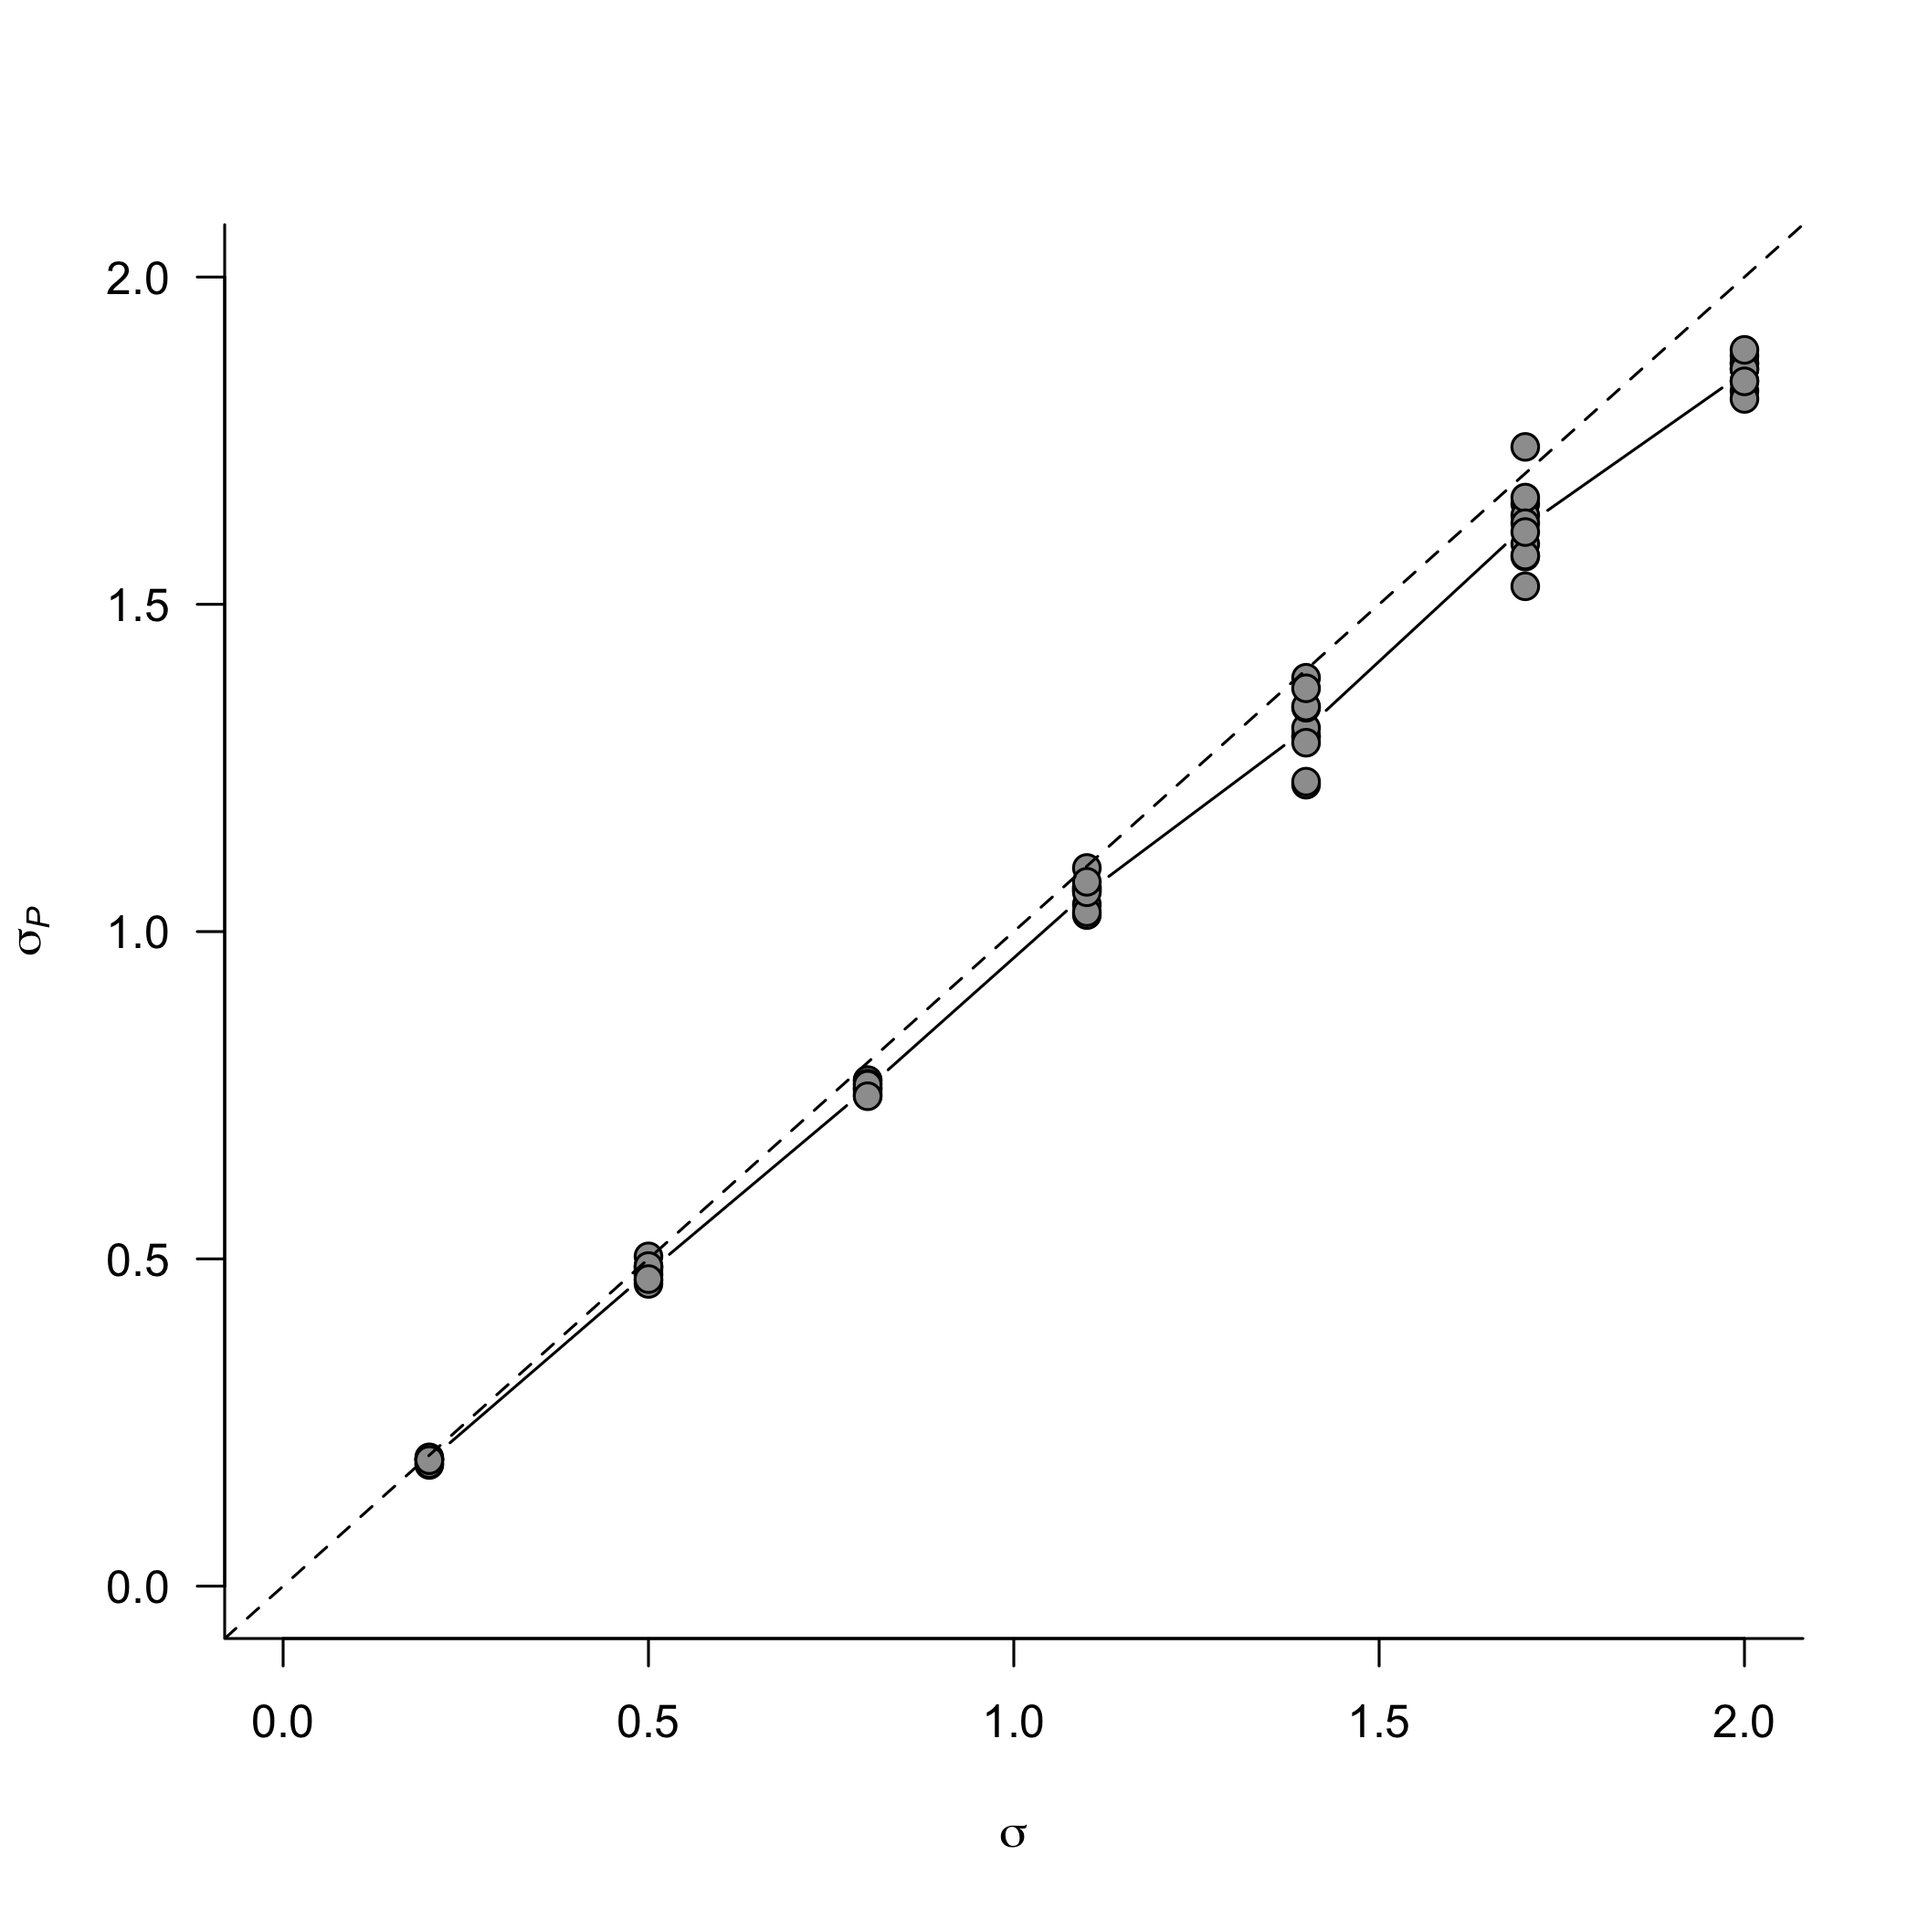
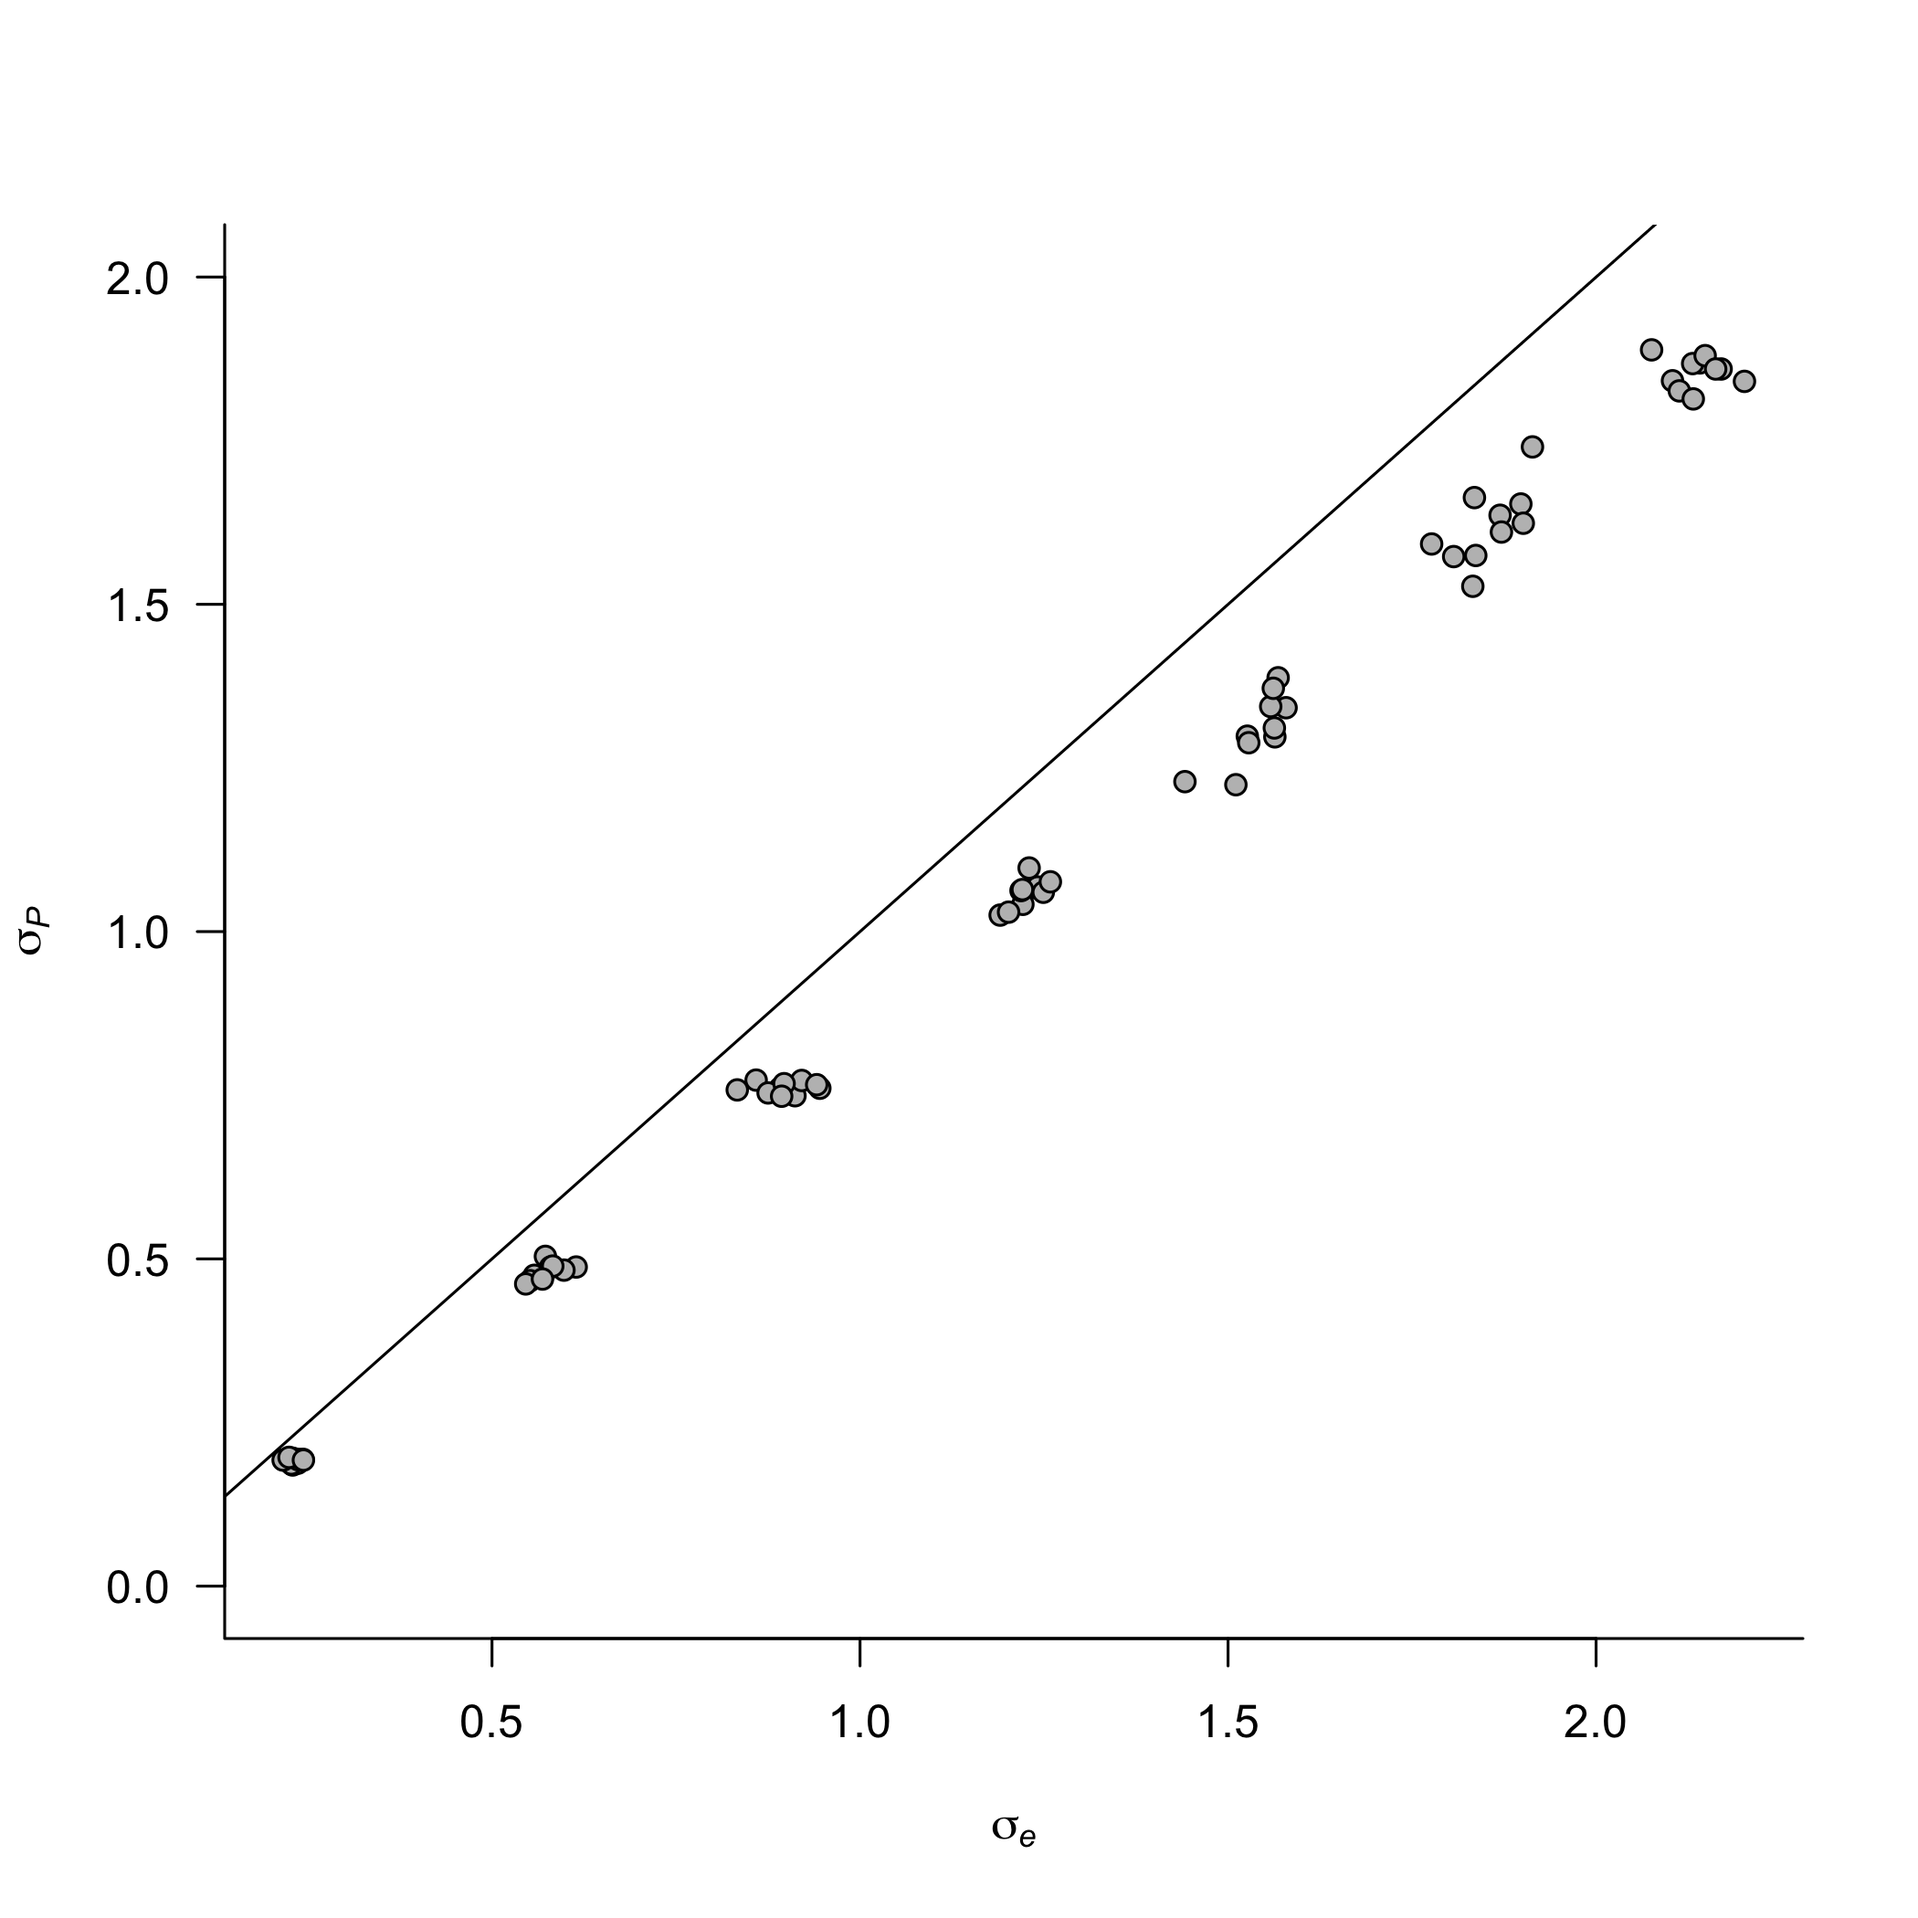
use effective migration rate in comparisons

diff --git a/3.methods.tex b/3.methods.tex
@@ -282,19 +282,22 @@ location centered on the mother's location was then chosen for each offspring
 by drawing from a dispersal kernel with a standard deviation of $\sigma$.
 
 We conducted simulations using either a Guassian dispersal kernel or a double
-exponential dispersal kernel and 7 different $\sigma$ levels that were equally
-spaced from 0.4\% to 4\% of the width of simulation landscape. The Guassian
-kernel emulates a Brownian motion while the double exponential kernel emulates
-a Laplace motion, which generates more extreme displacements of offspring
-relative to Brownian motion.
+exponential dispersal kernel and 7 different standard deviation levels ($\sigma$)
+that were equally spaced from 0.4\% to 4\% of the width of simulation landscape.
+The Guassian kernel emulates a Brownian motion while the double exponential 
+kernel emulates a Laplace motion, which generates more extreme displacements of 
+offspring relative to Brownian motion.
 
 We conducted 10 replicate simulations for each $\sigma$ level under each 
 dispersal kernel. For all simulations we set $R=1.1$ and $K=500$. Each
 simulation was terminated after $4K = 2000$ generations, after which the
 recorded (simplified) tree sequence of extant individuals was saved for 
 analysis. For all simulations we evaluated the ability of genome-wide parsimony
-averages to accurately estimate migration rates and the locations of genetic 
-ancestors.
+averages to accurately estimate effective migration rates and the locations of 
+genetic ancestors. We defined effective migration rate ($\sigma_e$) to be the
+maximum likelihood estimate of $\sigma$ under each dispersal kernel assuming we
+had complete knowledge of the locations of all ancestral individuals in the
+tree sequence.
 
 Simulations conducted under the Gaussian dispersal kernel were analyzed using
 squared Euclidean distance weighted by inverse branch length as the transition

diff --git a/8.figs.tex b/8.figs.tex
@@ -2,9 +2,9 @@
 \centering
 \includegraphics[width=\textwidth]{gauss-kernel-rate-estimates}
 \caption{Migration rate estimates for a Gaussian dispersal kernel. Each point
-represents a single simulation generated under Gaussian dispersal with kernel
-variance given on the x-axis and a parsimonious genome-wide estimate of that
-variance on the y-axis.
+represents a single simulation generated under Gaussian dispersal with effective
+migration rate given on the x-axis and a parsimonious genome-wide estimate of that
+rate on the y-axis. The inset line shows a 1:1 relationship.
 }
 \label{fig:gauss-kernel-rate-estimates}
 \end{figure}
@@ -13,11 +13,11 @@ variance on the y-axis.
 \centering
 \includegraphics[width=\textwidth]{laplace-kernel-rate-estimates}
 \caption{Migration rate estimates for a Laplace dispersal kernel. Each point
-represents a single simulation generated under Laplace dispersal with kernel
-variance given on the x-axis and a parsimonious genome-wide estimate of that
-variance on the y-axis. Estimates were conducted under three levels of 
-discretization (see main text) that are indistinguishable from one another on
-the graph.
+represents a single simulation generated under Laplace dispersal with effective
+migration rate given on the x-axis and a parsimonious genome-wide estimate of
+that rate on the y-axis. Estimates were conducted under three levels of 
+discretization indicated by the color of the point (see main text).
+The inset line shows a 1:1 relationship.
 }
 \label{fig:lapl-kernel-rate-estimates}
 \end{figure}

diff --git a/4.results.tex b/4.results.tex
@@ -5,13 +5,15 @@ coalesce completely resulting in some marginal genealogies having two or (rarely
 three roots. Because our method works with multi-rooted genealogies we did
 not recapitate these gene trees.
 
-The migration rate statistic $\sigma_P$ showed a tendency to underestimate the
-true migration rate for all simulations (Figs. \ref{fig:gauss-kernel-rate-estimates}, 
-\ref{fig:lapl-kernel-rate-estimates}). The magnitude of downward bias 
-increased with increasing migration and was more pronounced under the Laplace 
-kernel than under the Gaussian kernel. While this may be a consequence of
-discretizing a continuous space, the resolution of the discretization did not
-influence the estimate of the migration rate (cf. Fig. \ref{fig:lapl-kernel-rate-estimates}).
+For simulations generated under a gaussian dispersal kernel, the migration
+rate statistic $\sigma_P$ showed a moderate tendency to underestimate the 
+effective migration rate, with the magnitude of downward bias increasing with 
+with increasing effective migration rate 
+(Fig. \ref{fig:gauss-kernel-rate-estimates}). For simulations generated under
+a double exponential kernel, the migration rate statistic overestimated the
+effective migration rate, with the magnitude of upward bias decreasing with 
+with increasing resolution of the discretization
+(Fig. \ref{fig:lapl-kernel-rate-estimates}).
 
 Each ancestor $u$'s location was estimated as $\arg\min_x F_u(x)$ and these
 estimates are shown in figures \ref{fig:gauss-kernel-ancestor-estimates} and 
